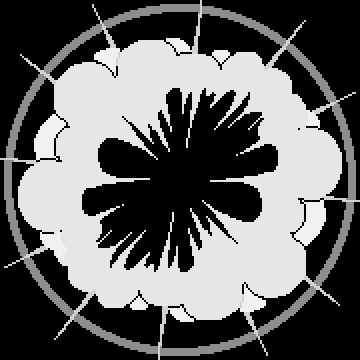
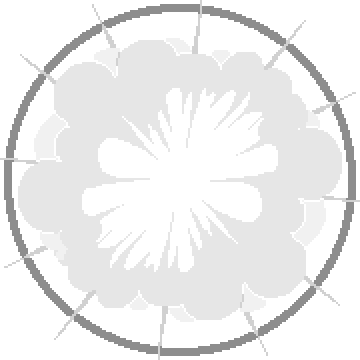
Dead Sun's Wind touch ups
new visuals and damage, changed some particles as well

diff --git a/Projectiles/Ranged/CosmicFire.cs b/Projectiles/Ranged/CosmicFire.cs
@@ -16,7 +16,9 @@ namespace CalamityMod.Projectiles.Ranged
         public ref int HitCount => ref Main.player[Projectile.owner].Calamity().deadSunCounter;
         public int Time = 0;
         public int bounceKill = 0;
-        public bool extraDamage = false;
+        public bool Homing = false;
+        public Color color1 = Color.Turquoise;
+        public Color color2 = Color.Indigo;
         public override void SetDefaults()
         {
             Projectile.width = 10;
@@ -33,27 +35,30 @@ namespace CalamityMod.Projectiles.Ranged
         {
             Time++;
             Lighting.AddLight(Projectile.Center, 0.117f, 0.155f, 0.159f);
+            
             if (Projectile.timeLeft % 3 == 0 && Time > 12)
             {
-                SparkParticle spark = new SparkParticle(Projectile.Center, -Projectile.velocity * 0.05f, false, 20, 2.3f, Main.rand.NextBool() ? Color.Turquoise : Color.MediumSpringGreen);
+                //SparkParticle spark = new SparkParticle(Projectile.Center, -Projectile.velocity * 0.05f, false, 20, 2.3f, Main.rand.NextBool() ? color2 : color1);
+                //GeneralParticleHandler.SpawnParticle(spark);
+                AltSparkParticle spark = new AltSparkParticle(Projectile.Center, -Projectile.velocity * 0.05f, false, 20, 2.3f, Color.Black);
                 GeneralParticleHandler.SpawnParticle(spark);
             }
             if (Projectile.timeLeft % 2 == 0 && Time > 12)
             {
-                SparkParticle spark2 = new SparkParticle(Projectile.Center, -Projectile.velocity * 0.05f, false, 20, 0.9f, Color.White);
+                SparkParticle spark2 = new SparkParticle(Projectile.Center, -Projectile.velocity * 0.05f, false, 20, 0.9f, color1);
                 GeneralParticleHandler.SpawnParticle(spark2);
             }
             if (Time == 7)
             {
                 for (int i = 0; i <= 18; i++)
                 {
-                    Dust dust = Dust.NewDustPerfect(Projectile.Center, Main.rand.NextBool(3) ? 191 : 156, Projectile.velocity);
+                    Dust dust = Dust.NewDustPerfect(Projectile.Center, Main.rand.NextBool(3) ? 191 : Main.rand.NextBool(4) ? 229 : 156, Projectile.velocity);
                     dust.scale = Main.rand.NextFloat(1.5f, 2.3f);
                     dust.velocity = Projectile.velocity.RotatedByRandom(0.3f) * Main.rand.NextFloat(0.3f, 2.1f);
                     dust.noGravity = true;
                 }
             }
-            if (extraDamage)
+            if (Homing)
             {
                 for (int i = 0; i <= 2; i++)
                 {
@@ -69,7 +74,7 @@ namespace CalamityMod.Projectiles.Ranged
         public override void OnHitNPC(NPC target, NPC.HitInfo hit, int damageDone)
         {
             SoundEngine.PlaySound(DeadSunsWind.Explosion with { Pitch = HitCount * 0.05f }, Projectile.Center);
-            Projectile.NewProjectile(Projectile.GetSource_FromThis(), Projectile.Center, Vector2.Zero, ModContent.ProjectileType<DeadSunExplosion>(), Projectile.damage - (Projectile.damage / 3), 4f, Projectile.owner, HitCount * 10, extraDamage ? 5 : 0);
+            Projectile.NewProjectile(Projectile.GetSource_FromThis(), Projectile.Center, Vector2.Zero, ModContent.ProjectileType<DeadSunExplosion>(), Projectile.damage / 2, 4f, Projectile.owner, HitCount * 10, Homing ? 5 : 0);
             if (HitCount >= 15)
                 HitCount = 6;
             else
@@ -78,28 +83,27 @@ namespace CalamityMod.Projectiles.Ranged
 
         public override bool OnTileCollide(Vector2 oldVelocity)
         {
-            float numberOfDusts = 20;
+            Projectile.timeLeft = 500;
+            float numberOfDusts = 25;
             float rotFactor = 360f / numberOfDusts;
             for (int i = 0; i < numberOfDusts; i++)
             {
                 float rot = MathHelper.ToRadians(i * rotFactor);
                 Vector2 offset = new Vector2(Main.rand.NextFloat(1, 3.1f), 0).RotatedBy(rot * Main.rand.NextFloat(1.1f, 9.1f));
                 Vector2 velOffset = new Vector2(Main.rand.NextFloat(1, 3.1f), 0).RotatedBy(rot * Main.rand.NextFloat(1.1f, 9.1f));
-                Dust dust = Dust.NewDustPerfect(Projectile.Center + offset, Main.rand.NextBool(4) ? 229 : 156, new Vector2(velOffset.X, velOffset.Y));
+                Dust dust = Dust.NewDustPerfect(Projectile.Center + offset, Main.rand.NextBool(6) ? 229 : 156, new Vector2(velOffset.X, velOffset.Y));
                 dust.noGravity = true;
                 dust.velocity = velOffset;
                 dust.scale = Main.rand.NextFloat(2.6f, 3.2f);
             }
-            Particle pulse = new DirectionalPulseRing(Projectile.Center, Vector2.Zero, Color.Turquoise, new Vector2(1f, 1f), Main.rand.NextFloat(5, -5), 0.1f, 0.9f - (bounceKill * 0.25f), 25);
+            Particle pulse = new DirectionalPulseRing(Projectile.Center, Vector2.Zero, color1, new Vector2(1f, 1f), Main.rand.NextFloat(5, -5), 0.1f, 0.9f - (bounceKill * 0.25f), 25);
             GeneralParticleHandler.SpawnParticle(pulse);
-            Particle pulse2 = new DirectionalPulseRing(Projectile.Center, Vector2.Zero, Color.MediumSpringGreen, new Vector2(1f, 1f), Main.rand.NextFloat(5, -5), 0.05f, 0.8f - (bounceKill * 0.25f), 25);
+            Particle pulse2 = new DirectionalPulseRing(Projectile.Center, Vector2.Zero, color2, new Vector2(1f, 1f), Main.rand.NextFloat(5, -5), 0.05f, 0.8f - (bounceKill * 0.25f), 25);
             GeneralParticleHandler.SpawnParticle(pulse2);
-            extraDamage = true;
+            Homing = true;
             if (bounceKill == 0)
-            {
-                Projectile.damage = Projectile.damage + (Projectile.damage / 5); // 20% damage bonus after a bounce
                 SoundEngine.PlaySound(DeadSunsWind.Ricochet, Projectile.Center);
-            }
+
             bounceKill++;
             if (Projectile.velocity.X != oldVelocity.X)
             {

diff --git a/Projectiles/Ranged/DeadSunExplosion.cs b/Projectiles/Ranged/DeadSunExplosion.cs
@@ -15,7 +15,8 @@ namespace CalamityMod.Projectiles.Ranged
         public override string Texture => "CalamityMod/Projectiles/InvisibleProj";
         public Player Owner => Main.player[Projectile.owner];
         public ref float ExplosionRadius => ref Projectile.ai[0];
-
+        public Color color1 = Color.Turquoise;
+        public Color color2 = Color.Indigo;
         public override void SetDefaults()
         {
             //These shouldn't matter because its circular
@@ -32,13 +33,15 @@ namespace CalamityMod.Projectiles.Ranged
         }
         public override void AI()
         {
-            Particle explosion = new DetailedExplosion(Projectile.Center, Vector2.Zero, Color.Turquoise, new Vector2(1f, 1f), Main.rand.NextFloat(-5, 5), 0f, ExplosionRadius * 0.0065f + 0.1f, Main.rand.Next(15, 22));
+            Particle explosion = new DetailedExplosion(Projectile.Center, Vector2.Zero, color1, new Vector2(1f, 1f), Main.rand.NextFloat(-5, 5), 0f, ExplosionRadius * 0.0065f + 0.1f, Main.rand.Next(15, 22));
             GeneralParticleHandler.SpawnParticle(explosion);
-            Particle explosion2 = new DetailedExplosion(Projectile.Center, Vector2.Zero, Color.MediumSpringGreen, new Vector2(1f, 1f), Main.rand.NextFloat(-5, 5), 0f, ExplosionRadius * 0.0045f + 0.1f, Main.rand.Next(15, 22));
+            Particle explosion2 = new DetailedExplosion(Projectile.Center, Vector2.Zero, Color.Black, new Vector2(1f, 1f), Main.rand.NextFloat(-5, 5), 0f, ExplosionRadius * 0.0045f + 0.1f, Main.rand.Next(15, 22), false);
             GeneralParticleHandler.SpawnParticle(explosion2);
-            Particle orb = new GenericBloom(Projectile.Center, Projectile.velocity, Color.Turquoise, ExplosionRadius * 0.0085f + 0.05f, 10, true);
+            Particle explosion3 = new DetailedExplosion(Projectile.Center, Vector2.Zero, Color.Black, new Vector2(1f, 1f), Main.rand.NextFloat(-5, 5), 0f, ExplosionRadius * 0.0030f + 0.1f, Main.rand.Next(15, 22), false);
+            GeneralParticleHandler.SpawnParticle(explosion3);
+            Particle orb = new GenericBloom(Projectile.Center, Projectile.velocity, color1, ExplosionRadius * 0.0085f + 0.05f, 10, true);
             GeneralParticleHandler.SpawnParticle(orb);
-            Particle orb2 = new GenericBloom(Projectile.Center, Projectile.velocity, Color.MediumSpringGreen, ExplosionRadius * 0.006f + 0.05f, 10, true);
+            Particle orb2 = new GenericBloom(Projectile.Center, Projectile.velocity, color2, ExplosionRadius * 0.006f + 0.05f, 10, true);
             GeneralParticleHandler.SpawnParticle(orb2);
             float numberOfDusts = ExplosionRadius * 0.1f + 10;
             float rotFactor = 360f / numberOfDusts;
@@ -48,8 +51,8 @@ namespace CalamityMod.Projectiles.Ranged
                 Vector2 offset = new Vector2(Main.rand.NextFloat(ExplosionRadius * 0.2f, 3.1f), 0).RotatedBy(rot * Main.rand.NextFloat(1.1f, 9.1f));
                 Vector2 velOffset = new Vector2(Main.rand.NextFloat(ExplosionRadius * 0.2f, 3.1f), 0).RotatedBy(rot * Main.rand.NextFloat(1.1f, 9.1f));
                 Dust dust = Dust.NewDustPerfect(Projectile.Center + offset, Main.rand.NextBool(4) ? 229 : Projectile.ai[1] == 5 ? 226 : 156, new Vector2(velOffset.X, velOffset.Y));
-                dust.noGravity = dust.type == 226 ? false : true;
-                dust.color = dust.type == 226 ? Color.Turquoise : default;
+                dust.noGravity = dust.type == 226? false : true;
+                dust.color = dust.type == 226 ? color1 : default;
                 dust.velocity = velOffset;
                 dust.scale = dust.type == 226 ? Main.rand.NextFloat(0.7f, 1.3f) : Main.rand.NextFloat(1.6f, 2.2f);
             }

diff --git a/Particles/AltSparkParticle.cs b/Particles/AltSparkParticle.cs
@@ -1,0 +1,51 @@
+using Microsoft.Xna.Framework;
+using Microsoft.Xna.Framework.Graphics;
+using System;
+using Terraria;
+using Terraria.ModLoader;
+
+namespace CalamityMod.Particles
+{
+    public class AltSparkParticle : Particle
+    {
+        public Color InitialColor;
+        public bool AffectedByGravity;
+        public override bool SetLifetime => true;
+        public override bool UseCustomDraw => true;
+        public override bool UseAdditiveBlend => false;
+
+        public override string Texture => "CalamityMod/Projectiles/StarProj";
+
+        public AltSparkParticle(Vector2 relativePosition, Vector2 velocity, bool affectedByGravity, int lifetime, float scale, Color color)
+        {
+            Position = relativePosition;
+            Velocity = velocity;
+            AffectedByGravity = affectedByGravity;
+            Scale = scale;
+            Lifetime = lifetime;
+            Color = InitialColor = color;
+        }
+
+        public override void Update()
+        {
+            Scale *= 0.95f;
+            Color = Color.Lerp(InitialColor, Color.Transparent, (float)Math.Pow(LifetimeCompletion, 3D));
+            Velocity *= 0.95f;
+            if (Velocity.Length() < 12f && AffectedByGravity)
+            {
+                Velocity.X *= 0.94f;
+                Velocity.Y += 0.25f;
+            }
+            Rotation = Velocity.ToRotation() + MathHelper.PiOver2;
+        }
+
+        public override void CustomDraw(SpriteBatch spriteBatch)
+        {
+            Vector2 scale = new Vector2(0.5f, 1.6f) * Scale;
+            Texture2D texture = ModContent.Request<Texture2D>(Texture).Value;
+
+            spriteBatch.Draw(texture, Position - Main.screenPosition, null, Color, Rotation, texture.Size() * 0.5f, scale, 0, 0f);
+            spriteBatch.Draw(texture, Position - Main.screenPosition, null, Color, Rotation, texture.Size() * 0.5f, scale * new Vector2(0.45f, 1f), 0, 0f);
+        }
+    }
+}

diff --git a/Particles/DetailedExplosion.cs b/Particles/DetailedExplosion.cs
@@ -10,7 +10,8 @@ namespace CalamityMod.Particles
     public class DetailedExplosion : Particle
     {
         public override string Texture => "CalamityMod/Particles/DetailedExplosion";
-        public override bool UseAdditiveBlend => true;
+        public bool UseAltVisual = true;
+        public override bool UseAdditiveBlend => UseAltVisual;
         public override bool SetLifetime => true;
         public override bool UseCustomDraw => true;
 
@@ -20,7 +21,7 @@ namespace CalamityMod.Particles
         private Vector2 Squish;
         private Color BaseColor;
 
-        public DetailedExplosion(Vector2 position, Vector2 velocity, Color color, Vector2 squish, float rotation, float originalScale, float finalScale, int lifeTime)
+        public DetailedExplosion(Vector2 position, Vector2 velocity, Color color, Vector2 squish, float rotation, float originalScale, float finalScale, int lifeTime, bool UseAdditiveBlend = true)
         {
             Position = position;
             Velocity = velocity;
@@ -31,6 +32,7 @@ namespace CalamityMod.Particles
             Lifetime = lifeTime;
             Squish = squish;
             Rotation = rotation;
+            UseAltVisual = UseAdditiveBlend;
         }
 
         public override void Update()

diff --git a/Items/Weapons/Ranged/DeadSunsWind.cs b/Items/Weapons/Ranged/DeadSunsWind.cs
@@ -18,7 +18,7 @@ namespace CalamityMod.Items.Weapons.Ranged
         public static readonly SoundStyle Explosion = new("CalamityMod/Sounds/Item/DeadSunExplosion") { Volume = 0.5f };
         public override void SetDefaults()
         {
-            Item.damage = 155;
+            Item.damage = 182;
             Item.DamageType = DamageClass.Ranged;
             Item.width = 70;
             Item.height = 24;
@@ -42,7 +42,7 @@ namespace CalamityMod.Items.Weapons.Ranged
 
         public override bool CanConsumeAmmo(Item ammo, Player player)
         {
-            if (Main.rand.Next(0, 100) < 70)
+            if (Main.rand.Next(0, 100) < 20)
                 return false;
             return true;
         }
